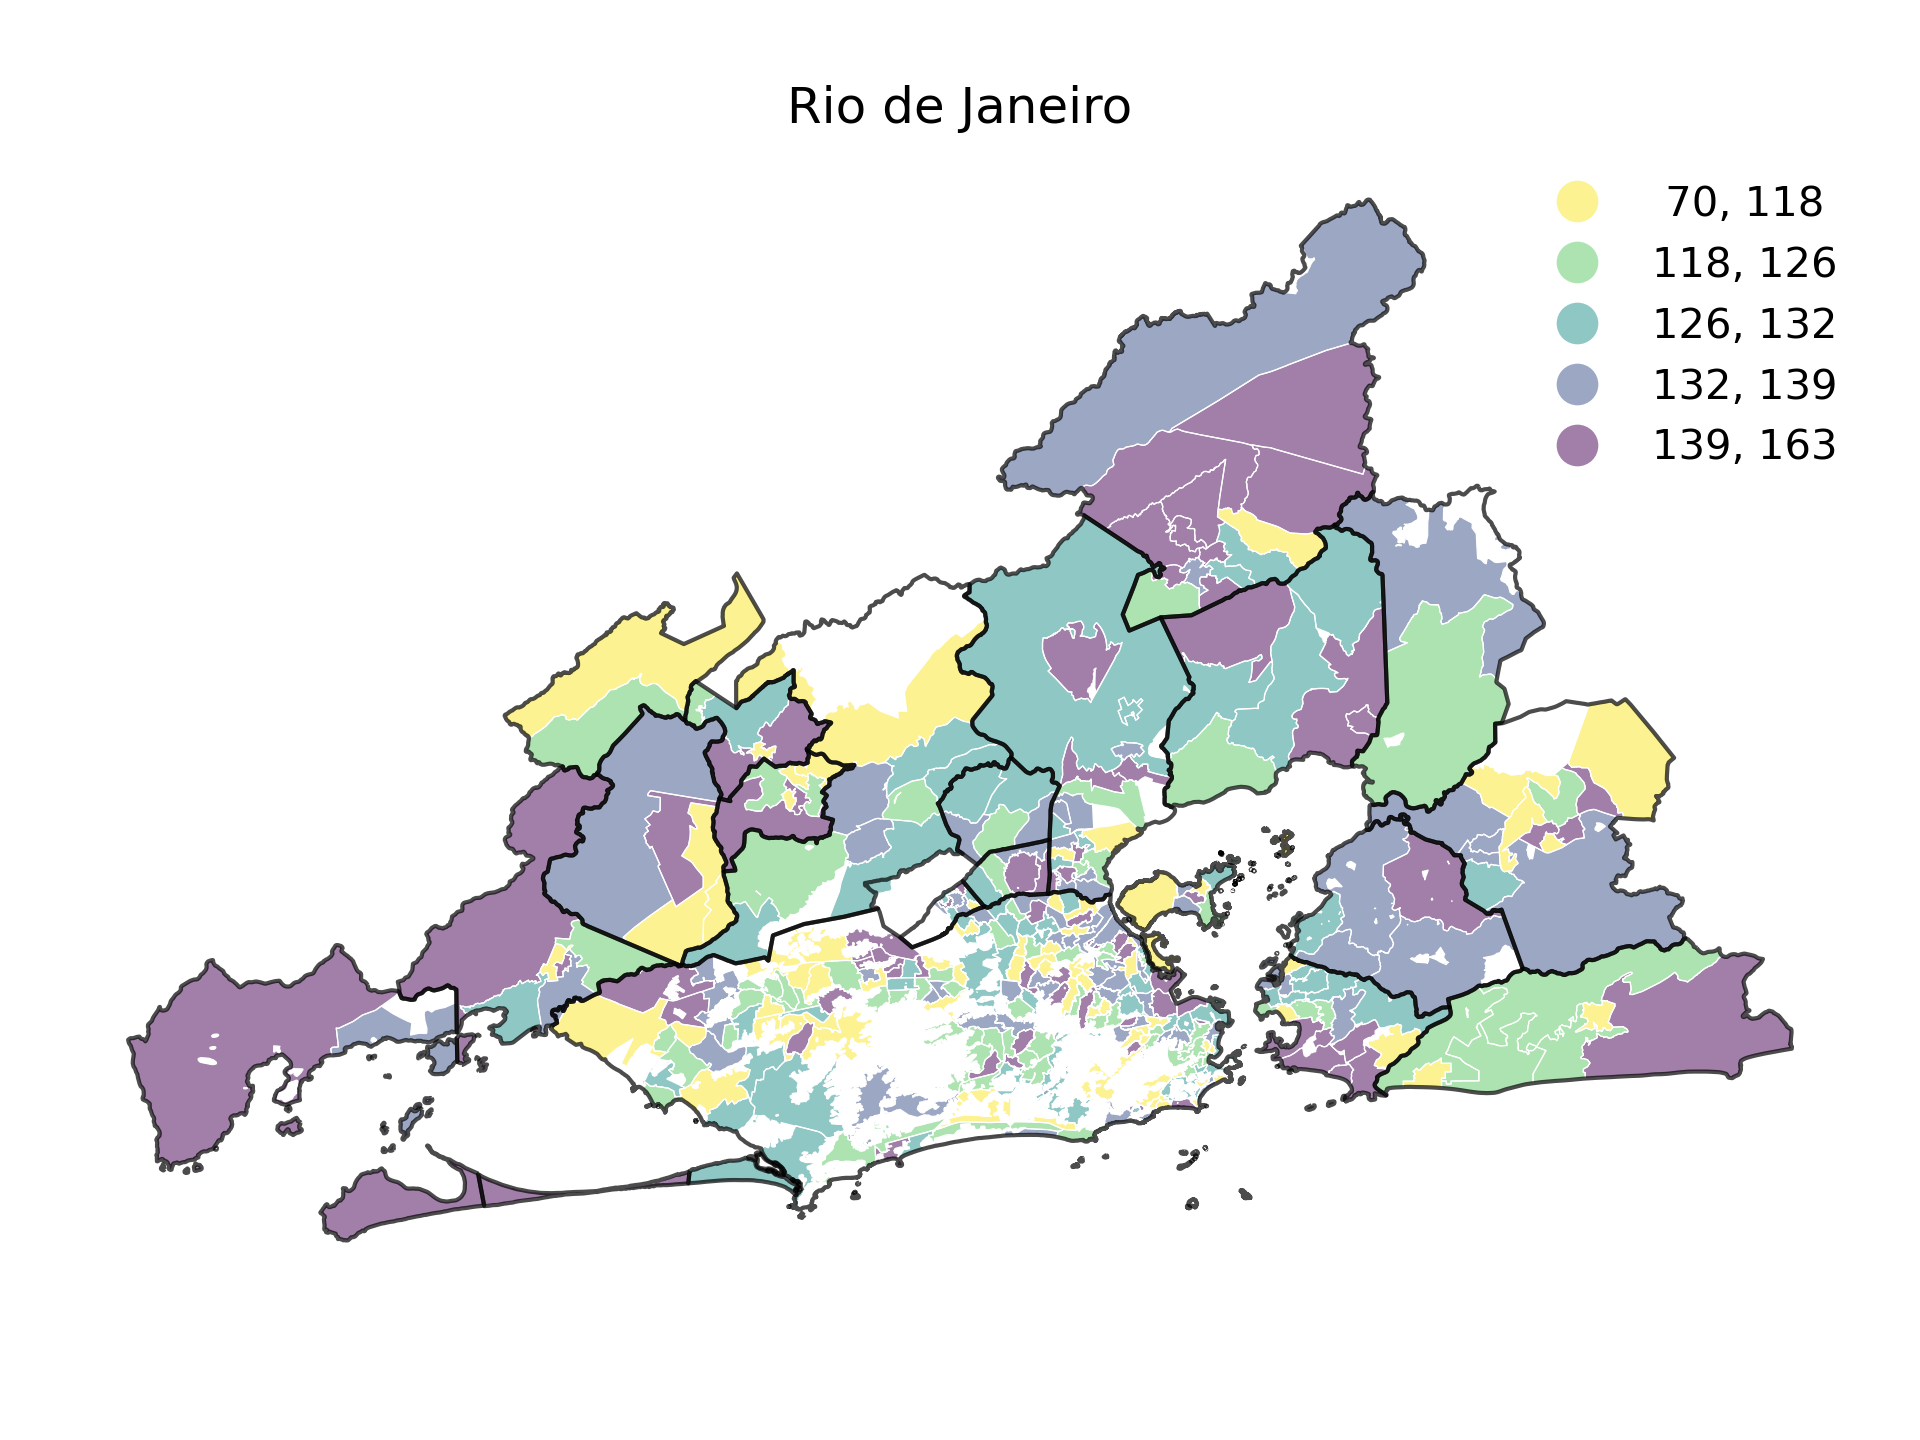
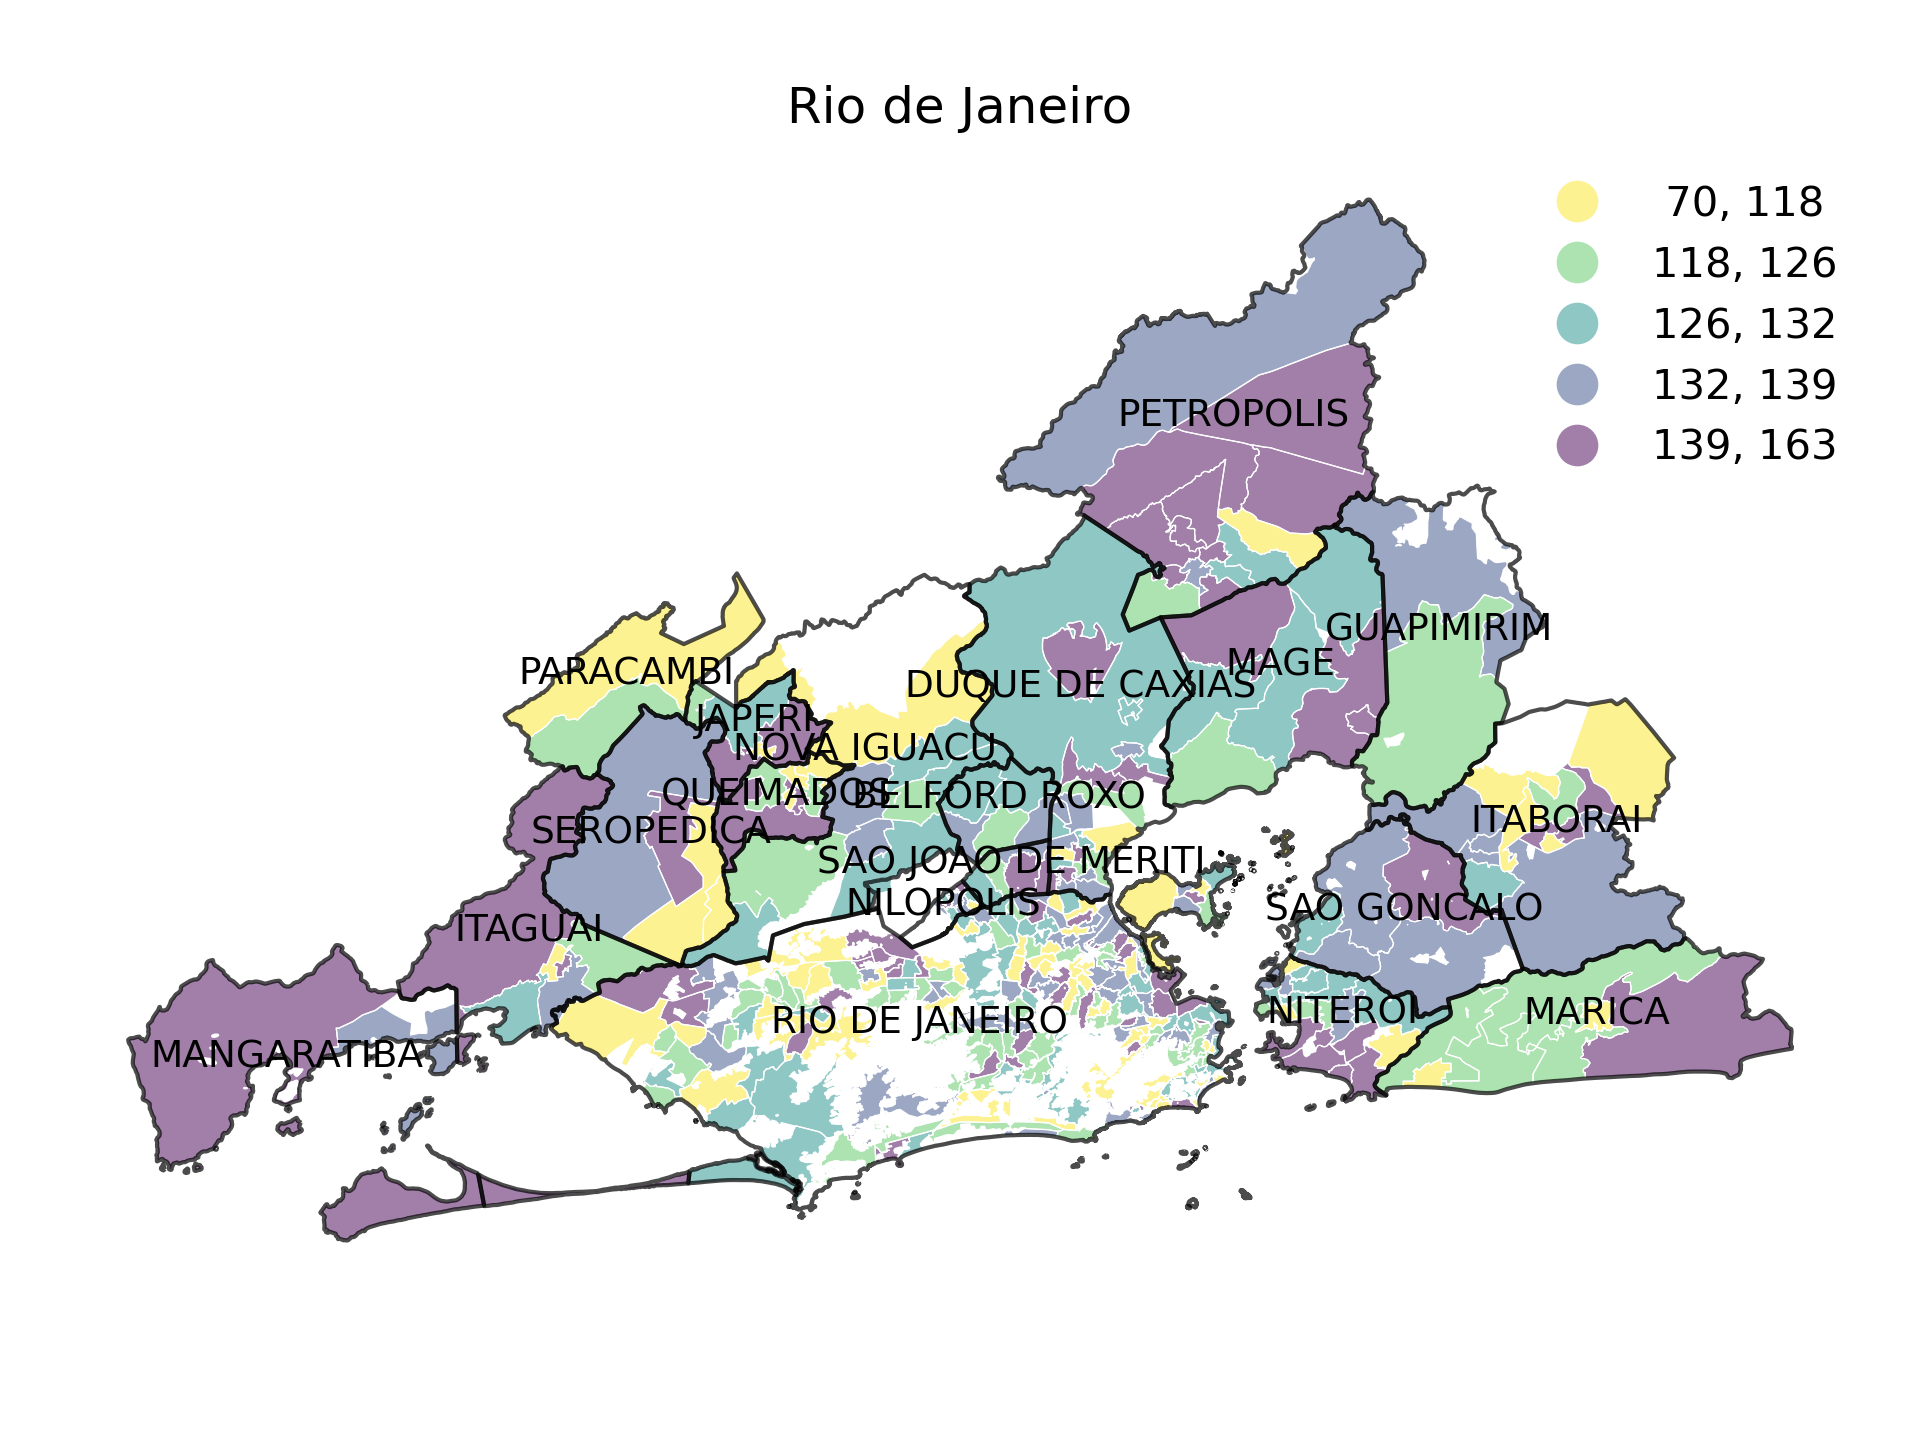
annotate municipalities names

diff --git a/VIDA2/plot_phase2.py b/VIDA2/plot_phase2.py
@@ -41,6 +41,10 @@ def plot_maps(shape, boundaries, col, leg=True, title='title'):
                )
     shape.boundary.plot(ax=ax, color='white', linewidth=.3, edgecolor='grey')
     boundaries.boundary.plot(ax=ax, color='black', linewidth=1, edgecolor='grey', alpha=.7, label='')
+    boundaries.apply(lambda x: ax.annotate(text=x['NM_MUNICIP'],
+                                           xy=x.geometry.centroid.coords[0],
+                                           ha='center',
+                                           fontsize=9), axis=1)
     ax.set_title(title)
     ax.set_axis_off()
     plt.tight_layout()
